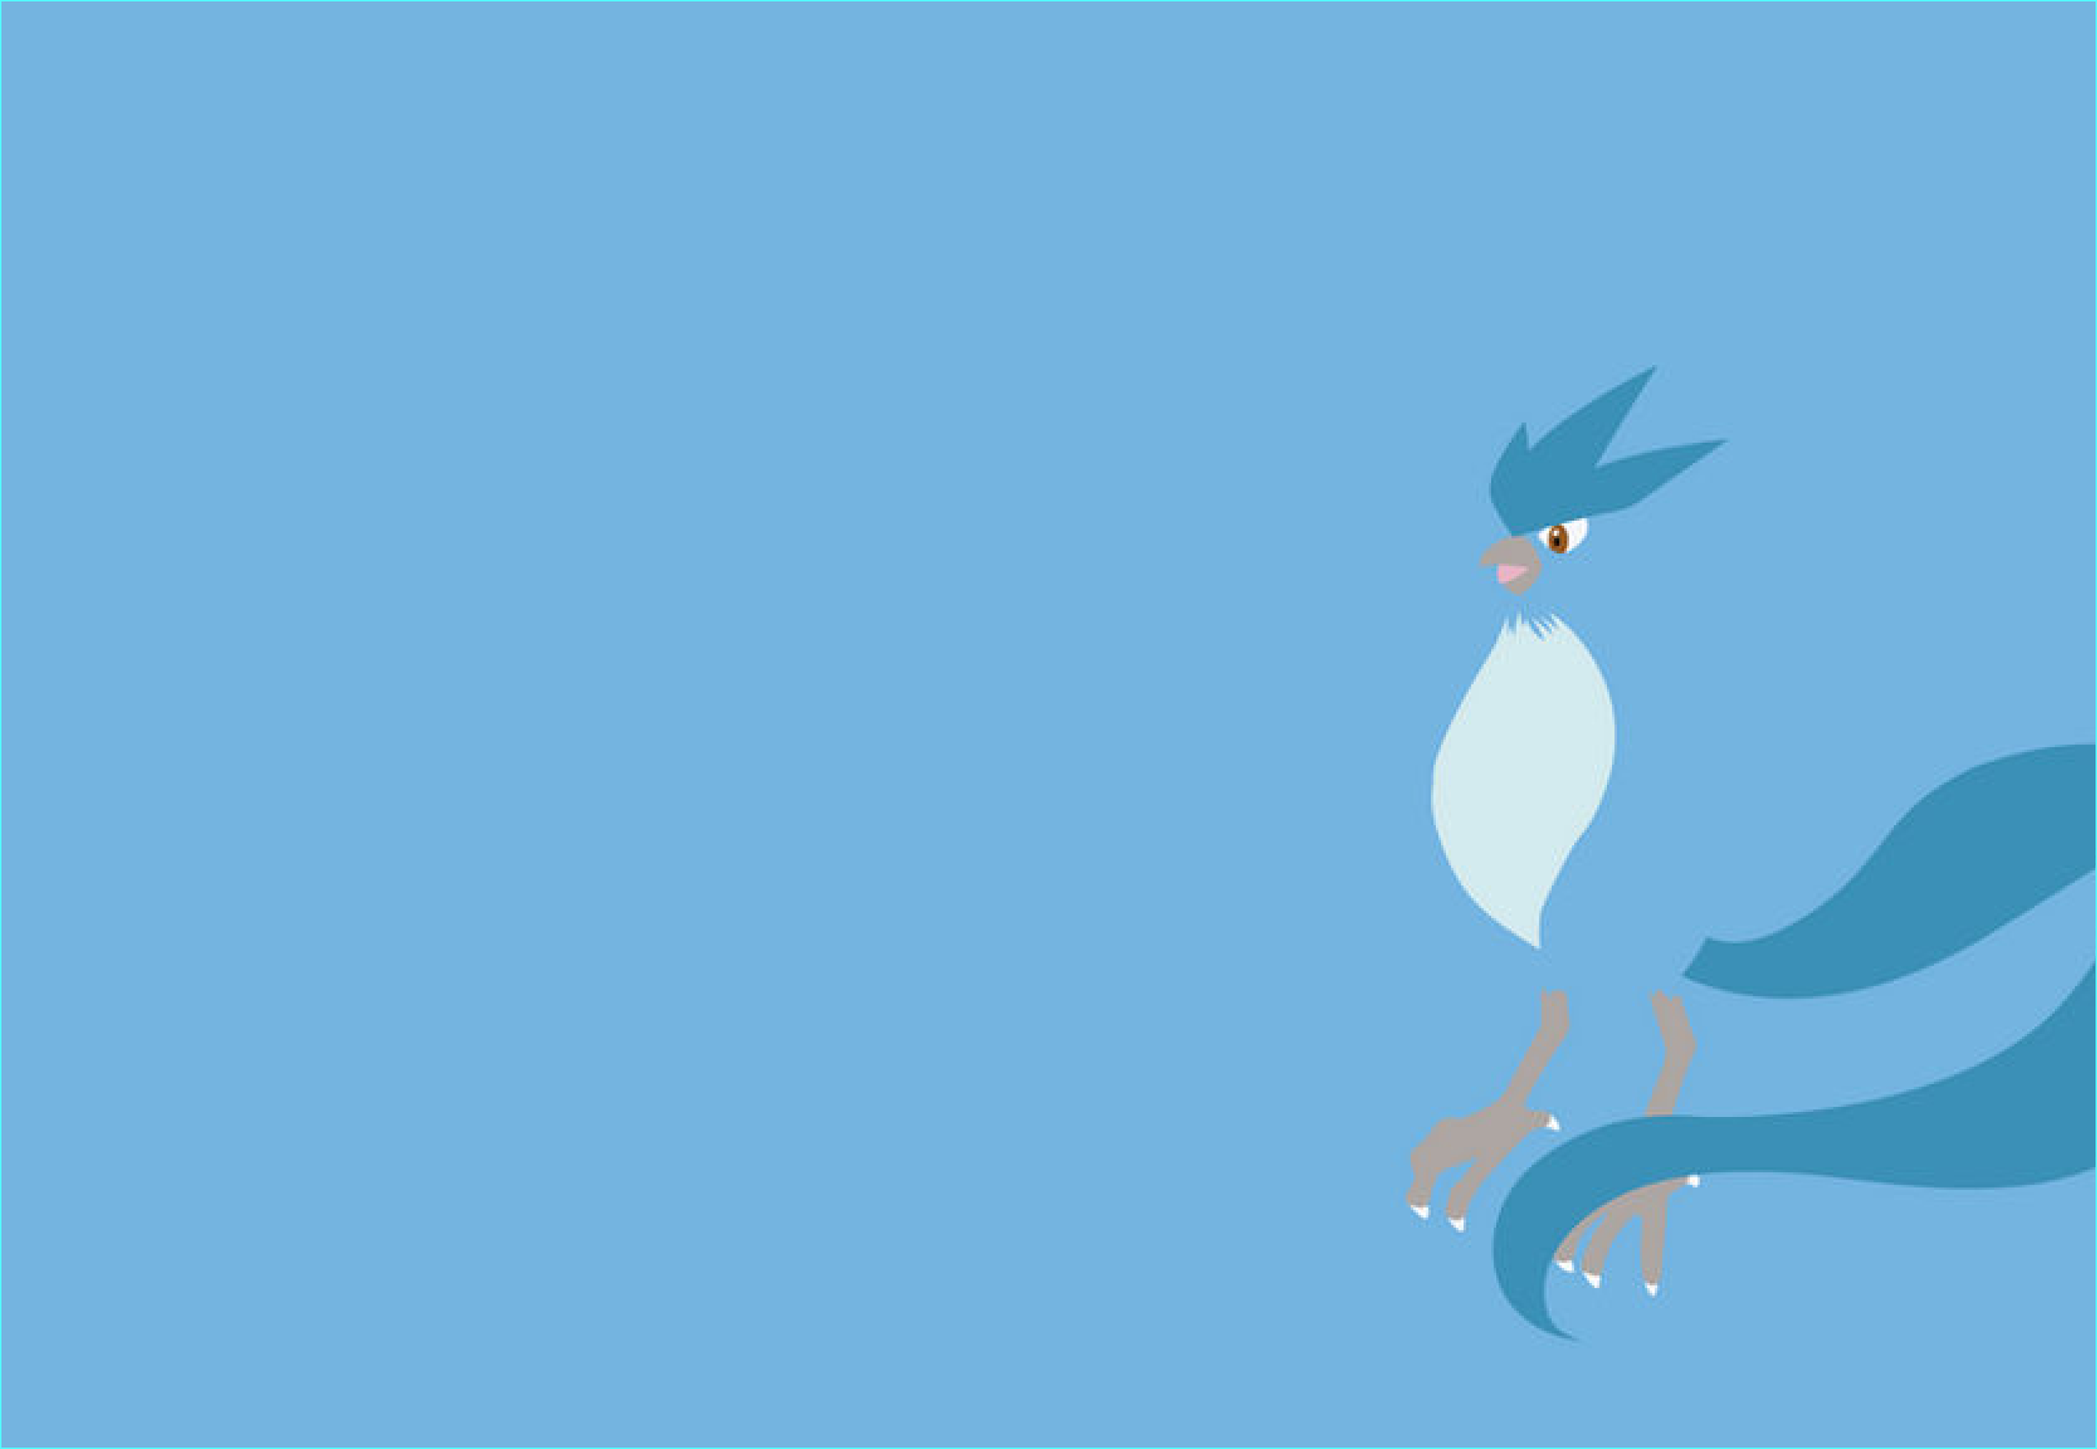
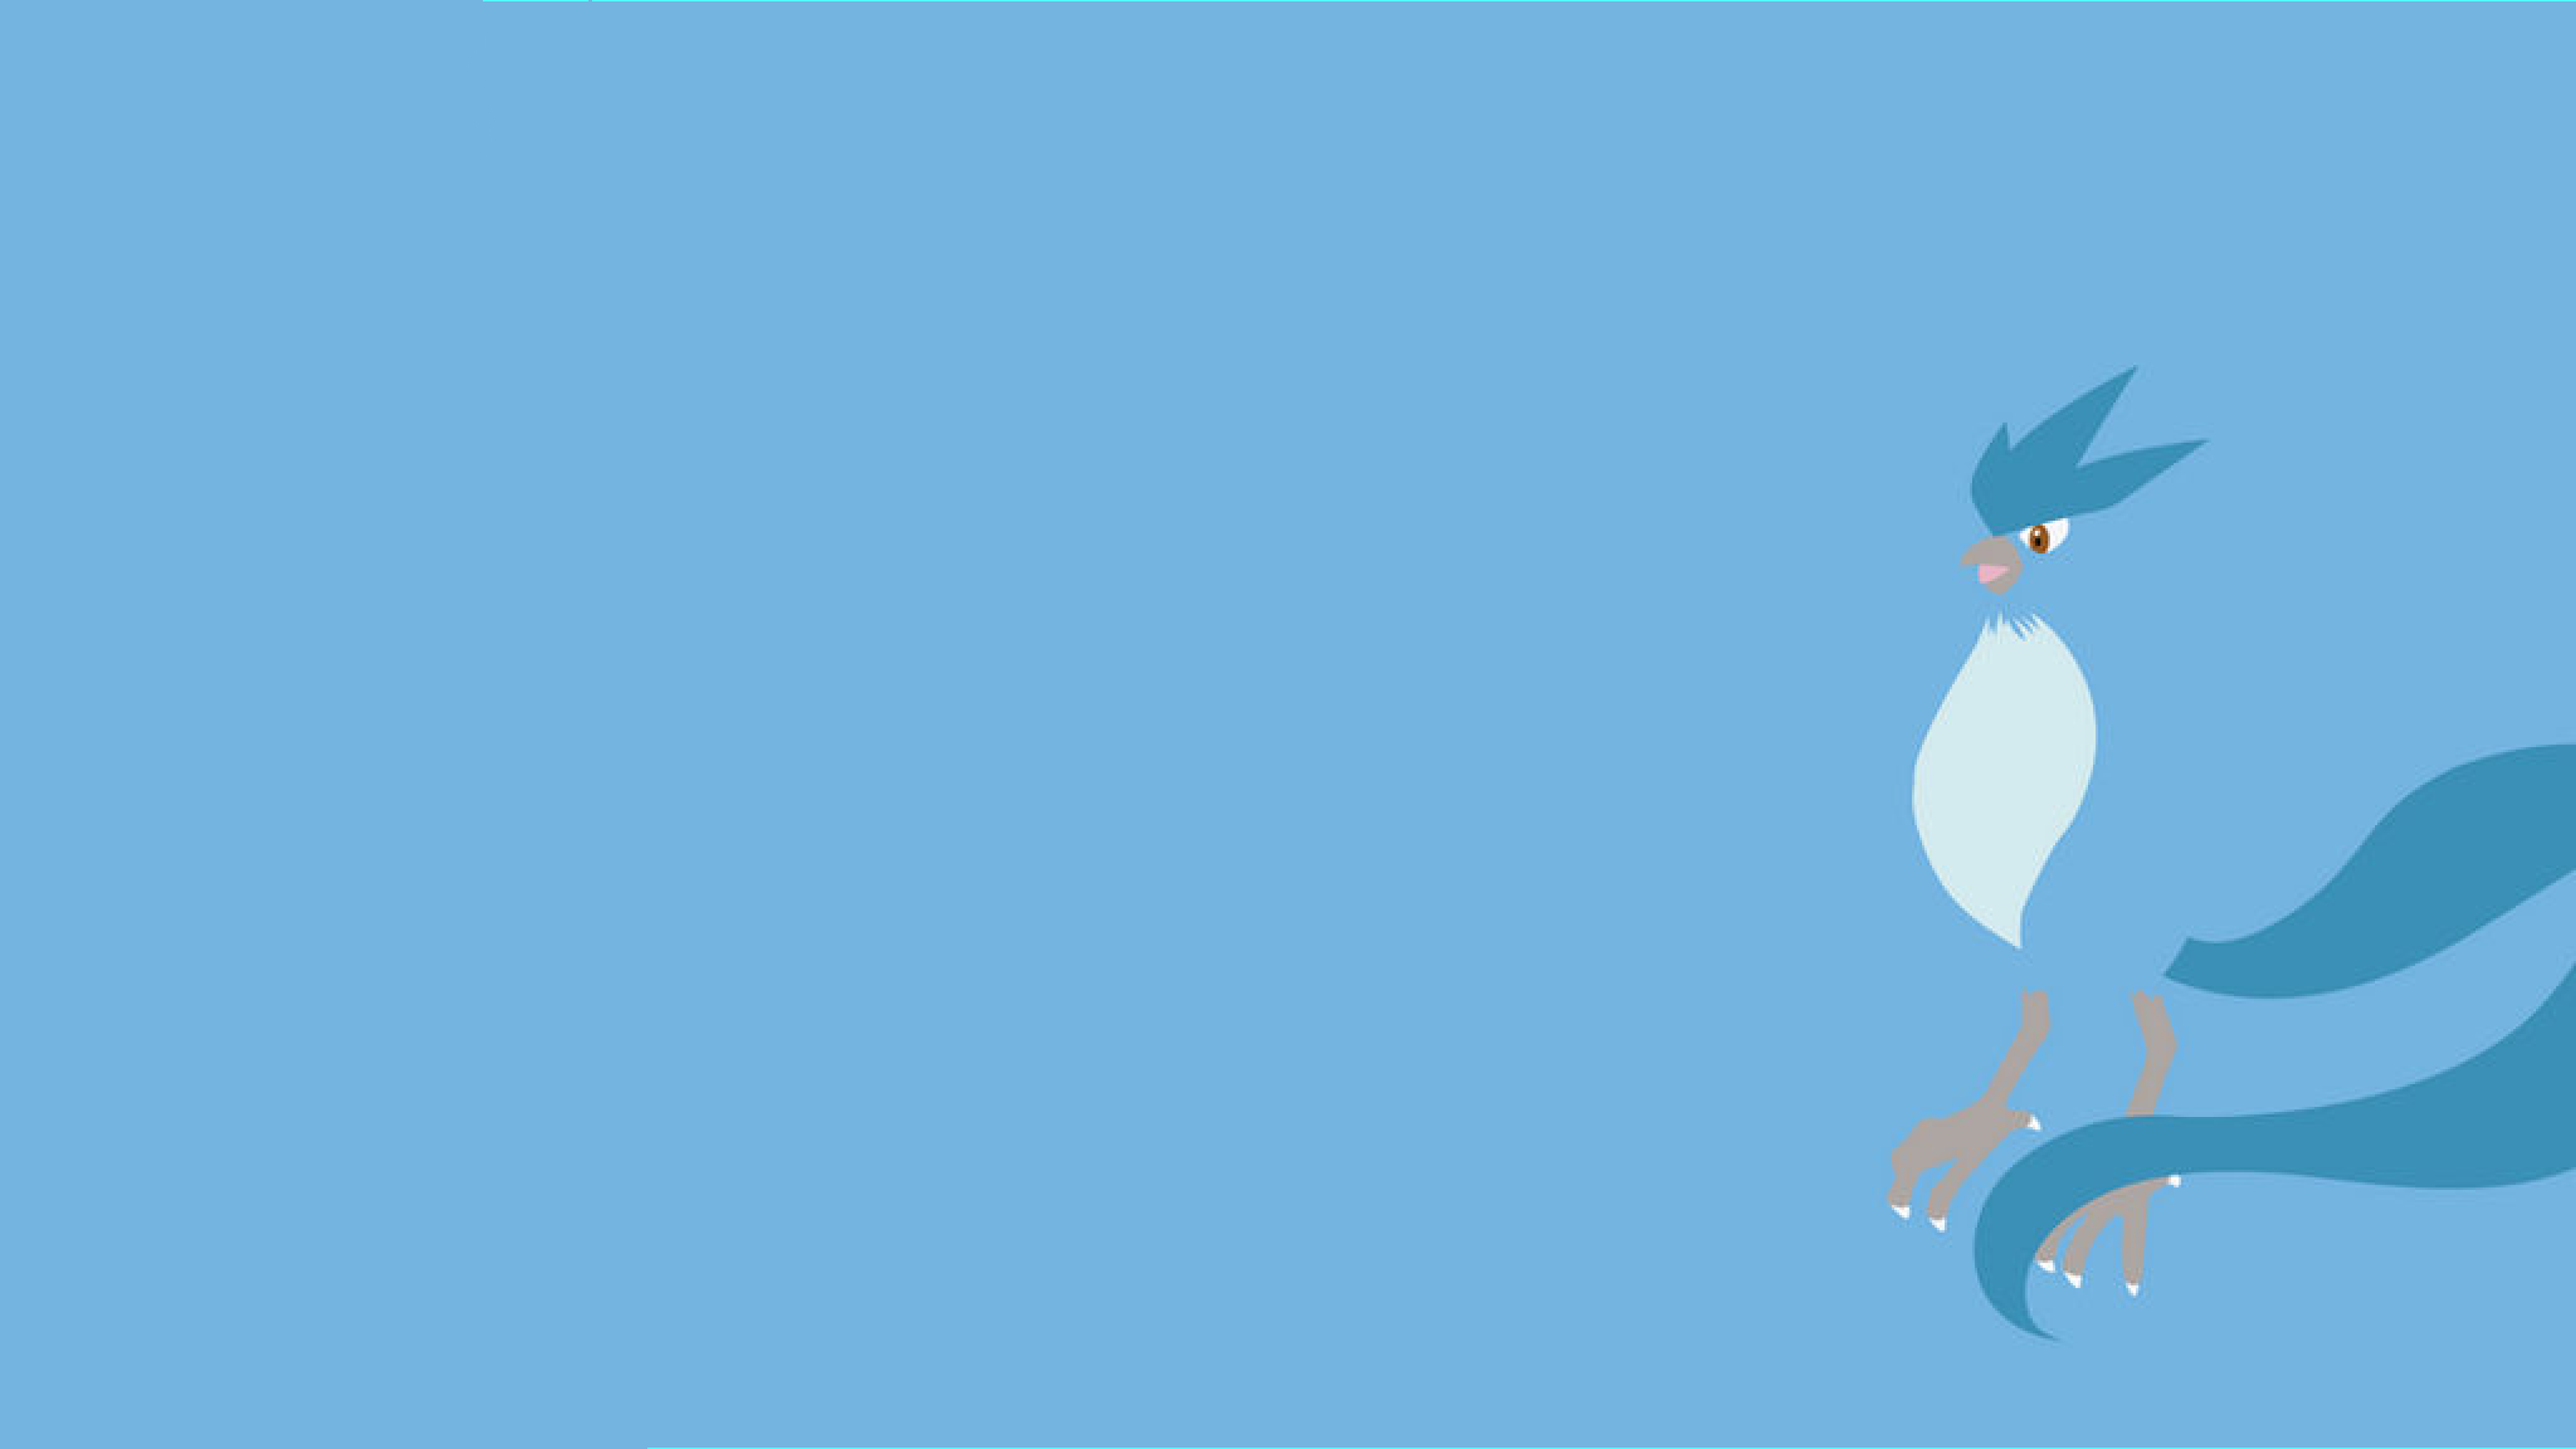
task: login view page, just html and css

diff --git a/src/app/auth/login/login.component.html b/src/app/auth/login/login.component.html
@@ -1,3 +1,38 @@
-<div class="">
-  <!-- <img class="w-full fixed top-0 left-0 h-full" src="/src/assets/images/png/background-articuno.png" alt="articuno background image"> -->
+<div class="bg-[#74B4E0] w-screen h-screen">
+  <img class="h-full fixed top-0 right-0 scale-[110%] translate-x-[-5%]" src="assets/images/png/background-articuno.png" alt="articuno background image">
+  <div class="z-10 h-full flex items-center">
+    <div class="px-[clamp(2.5rem,5%,5rem)] py-24 rounded-[12px] bg-[#4474AB] bg-opacity-80 z-10 m-auto md:ml-[50px] flex flex-col justify-center shadow-[4px_4px_4px_rgba(0,0,0,0.25)] ">
+      <div class="text-center space-y-5">
+        <!-- title -->
+        <h1 class="text-5xl text-[#E3F0F9]" style="font-family: 'Changa One';">
+          Another PokeAPI
+        </h1>
+        <!-- author info -->
+        <div class="w-full text-white flex flex-col items-center justify-center">
+          <p>Por: <span class="text-[#B4F4FF] font-bold">Reinhard Conde</span></p>
+          <em><p>Desarrollador web</p></em>
+        </div>
+        <!-- image interactive -->
+        <div class="flex justify-center w-full">
+          <div class="pokeball relative">
+            <img src="assets/images/png/pokeball.png" alt="pokeball" class="w-[127px] drop-shadow-[-10px_5px_10px_rgba(0,0,0,0.25)]">
+          </div>
+        </div>
+      </div>
+      <div class="w-full text-white">
+        <!-- login form -->
+        <form class="[&>div>label]:text-[20px] [&>div>label]:font-light space-y-10">
+          <div class="flex flex-col">
+            <label for="username">Username:</label>
+            <input id="username" type="text">
+          </div>
+          <div class="flex flex-col">
+            <label for="pwd">Password:</label>
+            <input id="pwd" type="password">
+          </div>
+          <button class="w-full py-2 text-2xl bg-[#19A2AB] rounded-[0.4rem] font-bold !mt-20">Log In</button>
+        </form>
+      </div>
+    </div>
+  </div>
 </div>

diff --git a/src/app/auth/login/login.component.css b/src/app/auth/login/login.component.css
@@ -1,0 +1,36 @@
+input {
+  background-color: #B2E3FF;
+  outline: 4px solid #10A2AB;
+  margin-top: 0.25rem;
+  border-radius: 4px;
+  color: #646464;
+  @apply py-2 px-3;
+}
+
+input:focus{
+  outline: 4px solid #10A2AB;
+}
+
+.pokeball:after{
+  content: '';
+  display: block;
+  width: 20px;
+  height: 19px;
+  background-color:rgb(208, 20, 20);
+  border-radius: 50%;
+  outline:1px solid black;
+  position: absolute;
+  z-index:10;
+  top: 47px;
+  right: 39px;
+  opacity:0.8;
+  animation-name: parpadeo;
+  animation-duration: 1s;
+  animation-iteration-count: infinite;
+  animation-direction: alternate;
+}
+
+@keyframes parpadeo {
+  from {opacity: 0;}
+  to {opacity: 1;}
+}

diff --git a/src/styles.css b/src/styles.css
@@ -1,4 +1,5 @@
 /* You can add global styles to this file, and also import other style files */
+@import url('https://fonts.googleapis.com/css2?family=Changa+One&family=Inter:wght@100;200;300;400;500;600;700;800;900&display=swap');
 
 @tailwind base;
 @tailwind components;

diff --git a/src/app/app.component.css b/src/app/app.component.css
@@ -1,0 +1,3 @@
+* {
+  font-family: 'Inter', sans-serif;
+}
